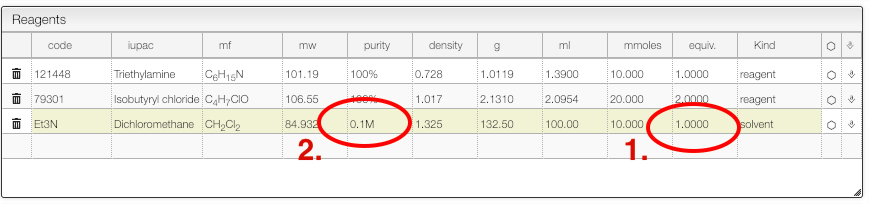
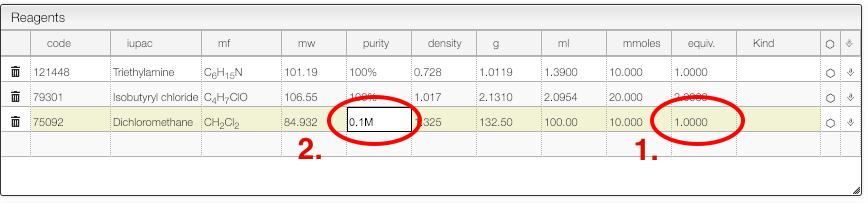
add purity help

diff --git a/src/book/eln/add-a-reaction/purity/index.md b/src/book/eln/add-a-reaction/purity/index.md
@@ -1,1 +1,9 @@
 ## Specifying the purity of a reagent
+
+The purity of a reagent may be specify using 3 possibles units:
+
+- %: purity as mass ratio
+- M: mole/liter
+- L: loading: mole/kg
+
+<img src="purity.png">
